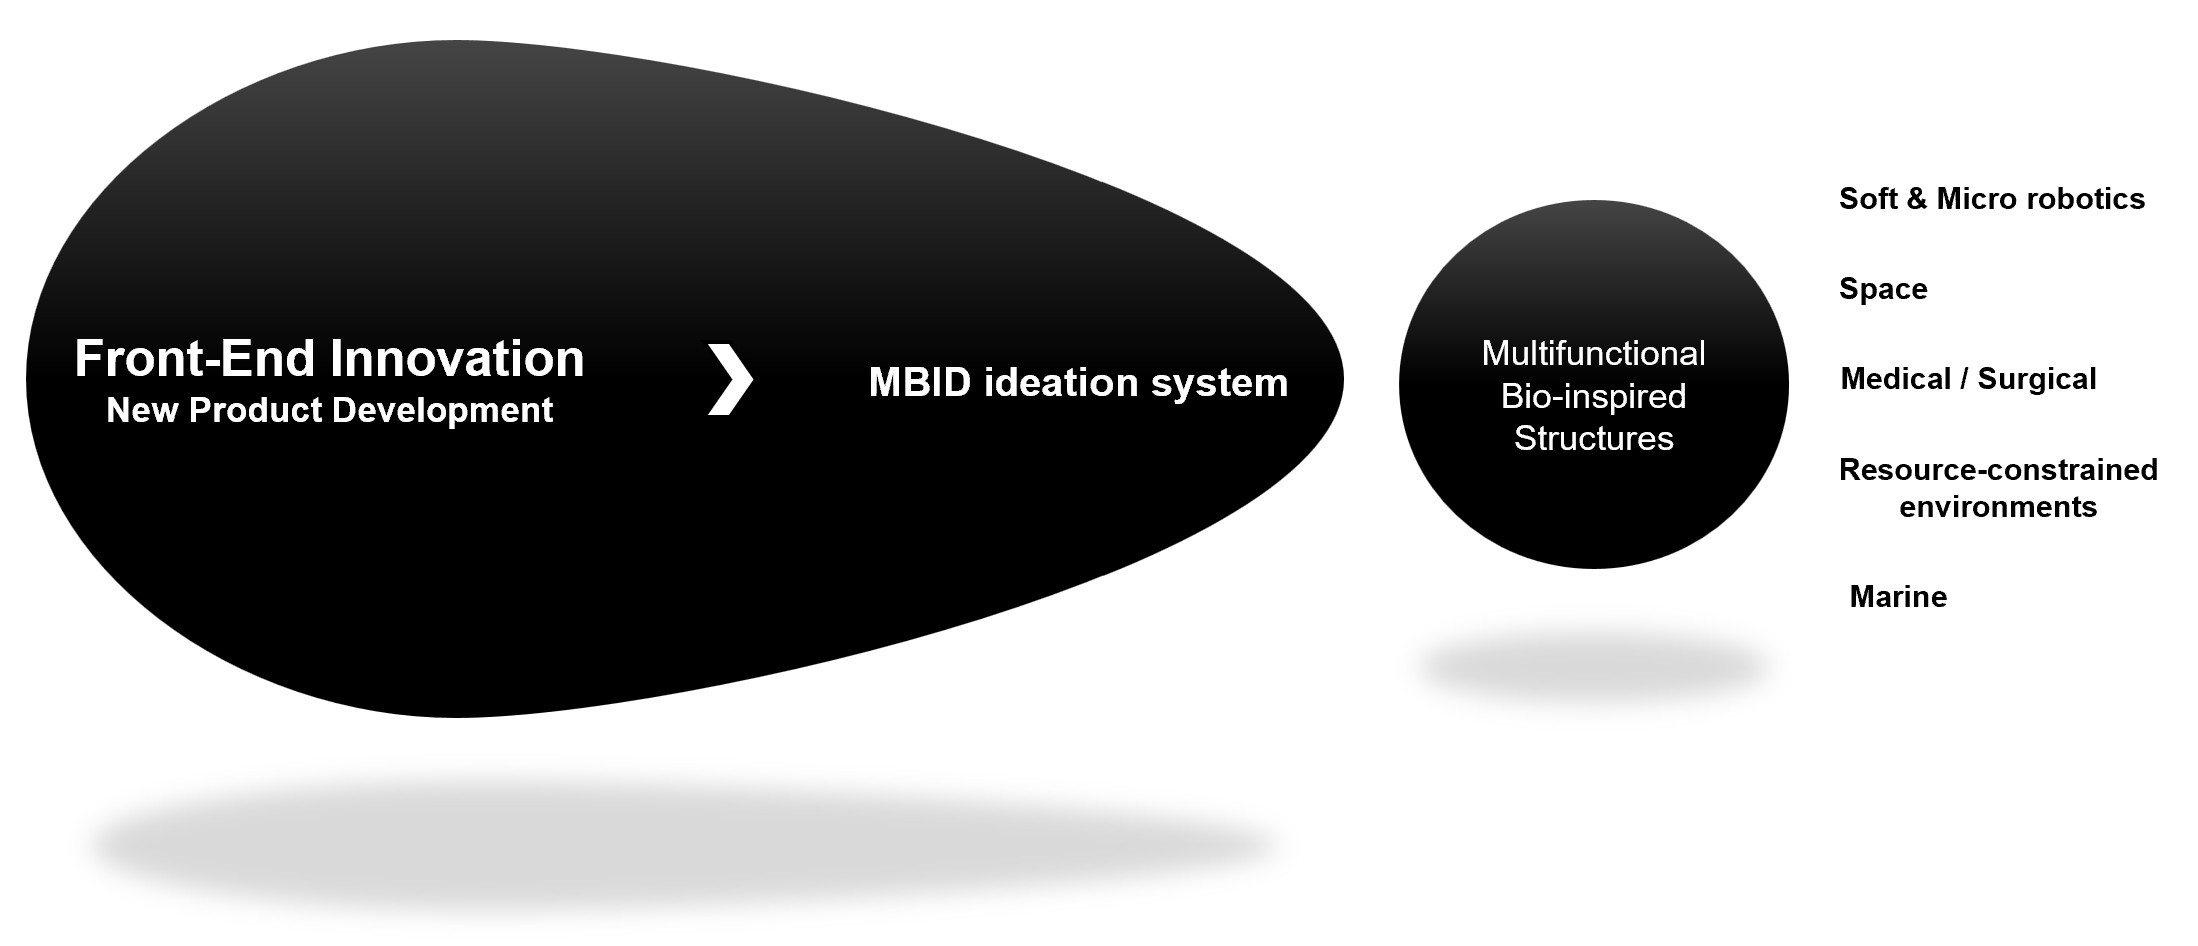
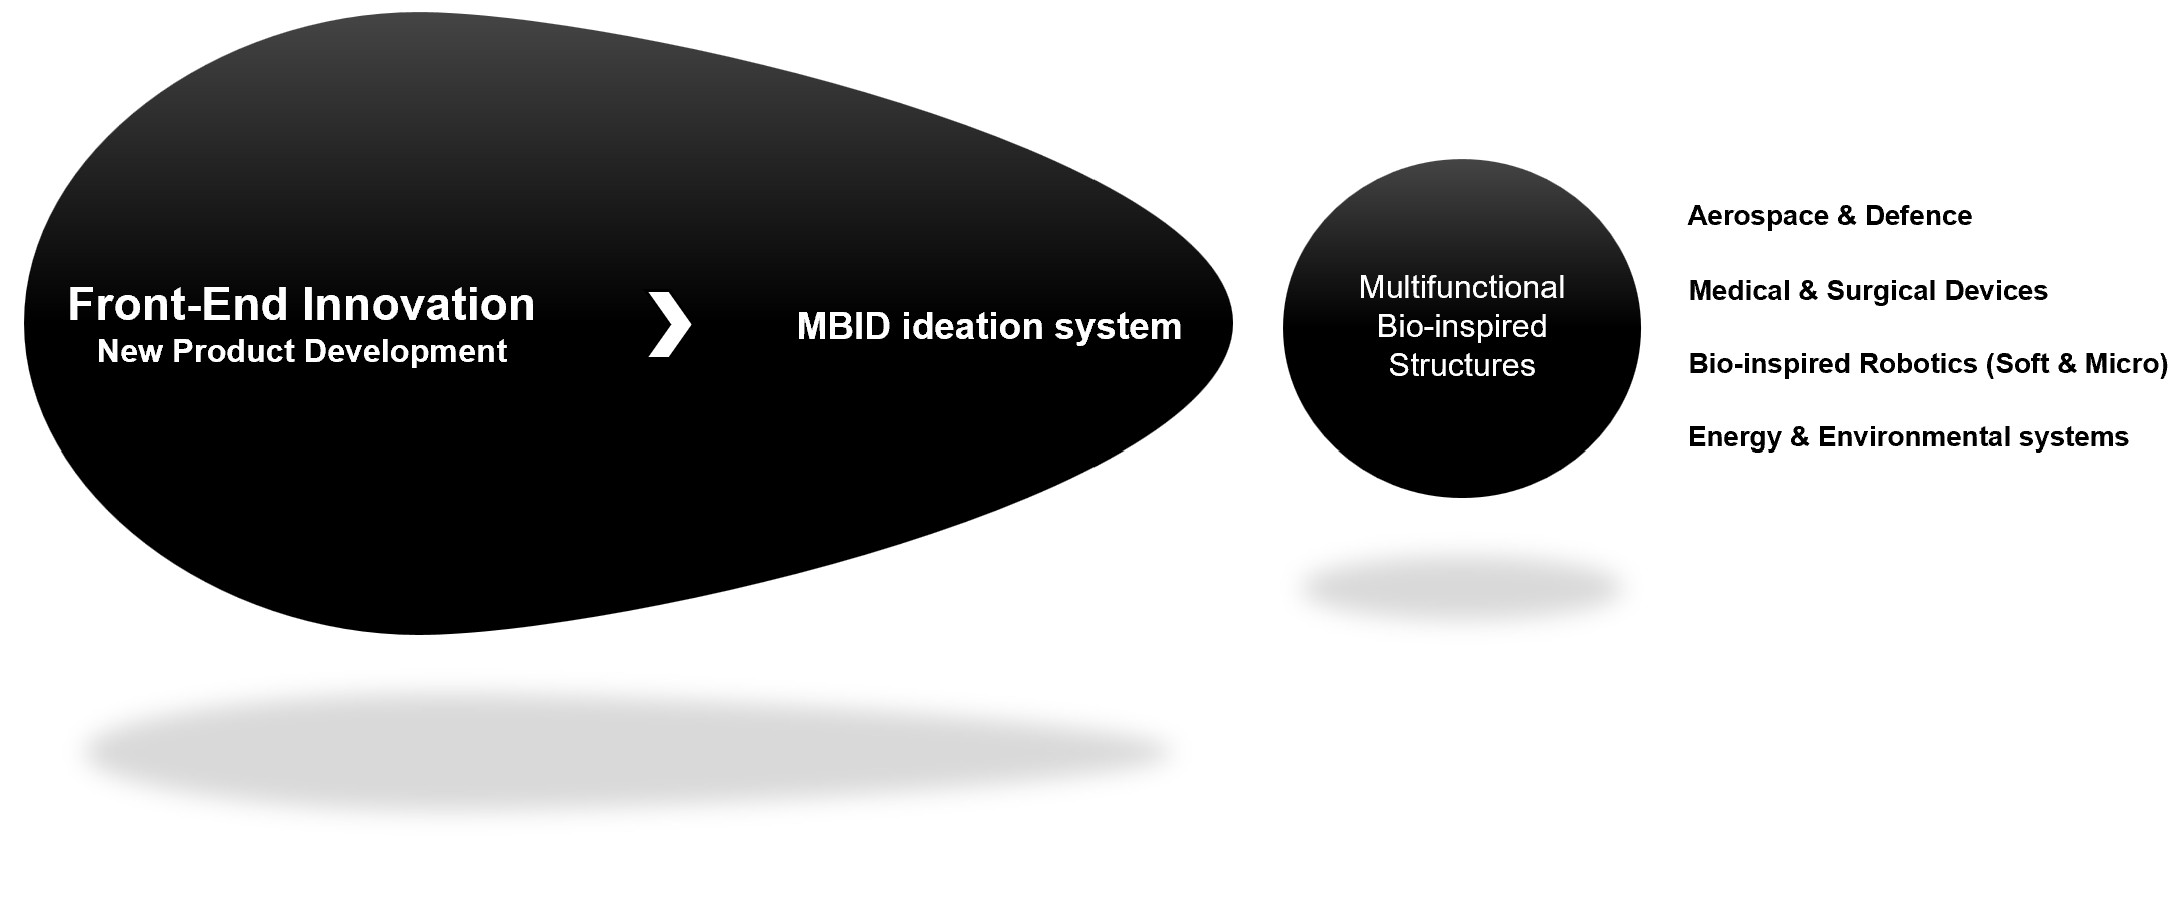
Fourty commit

diff --git a/index.html b/index.html
@@ -17,11 +17,11 @@
             <b>MBID</b> stands for <b><u>M</u>ultifunctional <u>B</u>io-<u>i</u>nspired <u>D</u>esign</b> - a biological morphology-informed, rule-based concept design framework 
             developed to translate functional biological structural strategies into novel <b>multifunctional mechanical architectures</b>. 
 
-            The MBID applies to any field that benefits from multifunctional, morphology-driven structures, including soft & micro robotic multifunctional structures, 
-            medical devices and instruments, space applications, automotive and mobility structures, marine systems, resource-constrained environments, and sports or performance wearables.
+            The MBID applies to any field that benefits from multifunctional, morphology-driven structures, including aerospace & defense, 
+            medical and surgical devices, bio-inspired robotics (soft & micro), and energy and environmental systems.
 
         </p>
-         <img src="images/mbid1.jpg" width="63%" alt="Intro-image">
+         <img src="images/mbid1.jpg" width="67%" alt="Intro-image">
         <p>
             Figure 1 illustrates the diverse applications of MBID across various sectors, 
             including <b>medical devices and instruments</b> (e.g., painless sutures), 
